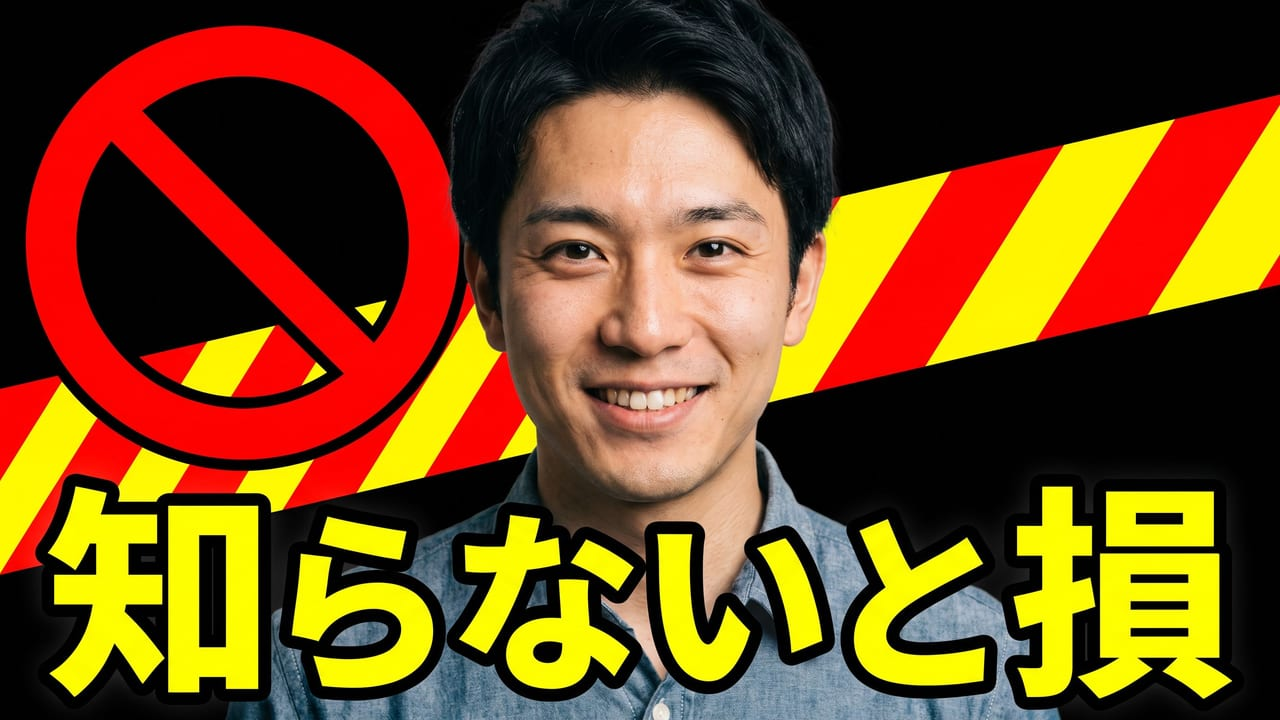
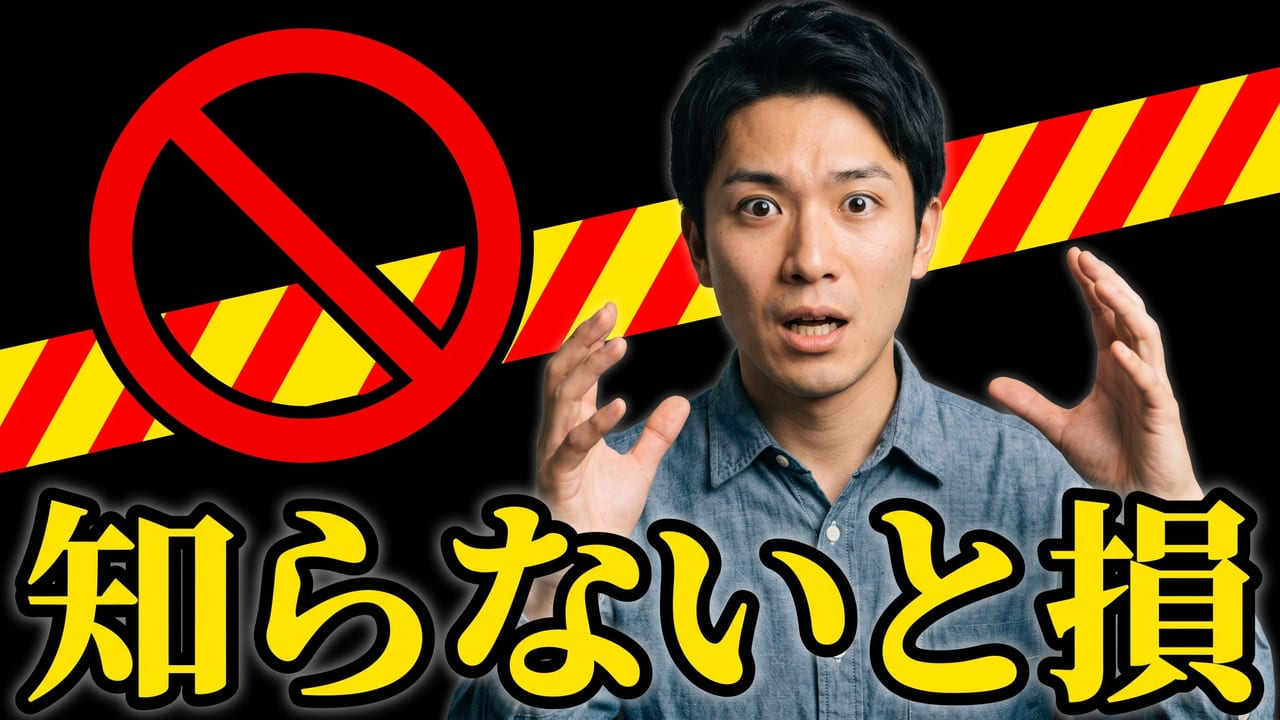
feat: switch to nano-banana-2, fix the illustrated face, add a beauty persona
ENGINE. google/nano-banana-pro -> google/nano-banana-2 (Gemini 3.1 Flash
Image), decided by scripts/bakeoff.ts over 15 real Japanese hooks per engine
with every disputed result checked by eye: JP text 15/15 vs 14/15, ~19s vs
~34s, $0.067 vs $0.134 an image. Better text, ~1.8x faster, half the price —
the incumbent was losing to Google's own newer, cheaper model. Read from
NBP_MODEL so a regression can be rolled back from Vercel with no deploy;
image quality is subjective and 15 images is a sample, not a guarantee.

ACTION PROMPT. Both engines were returning an illustrated face for this
concept — for this product the worst possible failure, since the user's
uploaded face is the entire point and a cartoon of it is not them. The old
wording opened with "comic-book-style" and tried to claw the person back
with "NOT illustrated, drawn or cartoon". That was the wrong shape of fix:
an image model takes its medium from the first thing it reads, and negations
are weak. It now opens "A photorealistic ... photograph, shot on a real
camera", describes skin, hair and photographic light positively instead of
forbidding cartoons, and drops the word "comic" entirely in favour of the
concrete shapes actually wanted (radiating burst lines, halftone dots) —
shapes cannot be applied to a face the way a whole-image art style can.
Verified: the regenerated sample is fully photographic.

BEAUTY PERSONA. soft-lifestyle's sample showed the mid-20s male persona.
[…]

diff --git a/scripts/gen-examples.ts b/scripts/gen-examples.ts
@@ -37,8 +37,6 @@ if (!process.env.REPLICATE_API_TOKEN) {
 
 const OUT_DIR = join(process.cwd(), '.preview-examples');
 const PUBLISH_DIR = join(process.cwd(), 'public', 'examples');
-const PORTRAIT_PATH = join(OUT_DIR, 'persona.png');
-
 // One sample per concept. Hooks stay close to the prod-validated phrases
 // (まさかの結末 / 1日で100万 / I QUIT / 新記録達成) to minimize garble risk;
 // topics vary to show range. lang must match each concept's lang in lib/nbp.ts.
@@ -89,12 +87,37 @@ const SAMPLES: Record<string, { topic: string; hook: string }> = {
   },
 };
 
-const PORTRAIT_PROMPT =
-  'A photorealistic studio headshot portrait of a fictional Japanese man in his mid-20s, ' +
-  'a friendly approachable YouTube content creator with short black hair and a natural smile, ' +
-  'looking straight at the camera, plain light gray studio background, soft even lighting, ' +
-  'sharp focus on the face, head and shoulders only. This is an entirely fictional person ' +
-  'who does not resemble any real individual.';
+// Two fictional personas. The samples are what a first-time visitor uses to
+// decide whether a style is "for them", so a beauty/lifestyle tile showing a
+// man in his mid-20s quietly tells the largest audience for that style that it
+// isn't. Both are entirely fictional — no real person's likeness is involved.
+const PERSONAS: Record<'default' | 'beauty', { path: string; prompt: string }> = {
+  default: {
+    path: join(OUT_DIR, 'persona.png'),
+    prompt:
+      'A photorealistic studio headshot portrait of a fictional Japanese man in his mid-20s, ' +
+      'a friendly approachable YouTube content creator with short black hair and a natural smile, ' +
+      'looking straight at the camera, plain light gray studio background, soft even lighting, ' +
+      'sharp focus on the face, head and shoulders only. This is an entirely fictional person ' +
+      'who does not resemble any real individual.',
+  },
+  beauty: {
+    path: join(OUT_DIR, 'persona-beauty.png'),
+    prompt:
+      'A photorealistic studio headshot portrait of a fictional Japanese woman in her mid-20s, ' +
+      'a friendly approachable beauty and lifestyle YouTube creator with shoulder-length dark hair ' +
+      'and a natural relaxed smile, looking straight at the camera, plain light gray studio ' +
+      'background, soft even lighting, sharp focus on the face, head and shoulders only. ' +
+      'This is an entirely fictional person who does not resemble any real individual.',
+  },
+};
+
+// Which persona each concept's sample uses. Anything unlisted uses `default`.
+const SAMPLE_PERSONA: Record<string, keyof typeof PERSONAS> = {
+  'soft-lifestyle': 'beauty',
+};
+
+const PORTRAIT_PATH = PERSONAS.default.path;
 
 async function toBytes(out: unknown): Promise<Buffer | null> {
   const item: unknown = Array.isArray(out) ? out[0] : out;
@@ -113,12 +136,13 @@ async function toBytes(out: unknown): Promise<Buffer | null> {
   return Buffer.from(await res.arrayBuffer());
 }
 
-async function genPortrait(replicate: Replicate) {
+async function genPortrait(replicate: Replicate, which: keyof typeof PERSONAS = 'default') {
   mkdirSync(OUT_DIR, { recursive: true });
-  process.stdout.write('[portrait] generating fictional persona... ');
+  const persona = PERSONAS[which];
+  process.stdout.write(`[portrait:${which}] generating fictional persona... `);
   const out = await replicate.run(NBP_MODEL, {
     input: {
-      prompt: PORTRAIT_PROMPT,
+      prompt: persona.prompt,
       image_input: [],
       aspect_ratio: '1:1',
       resolution: '1K',
@@ -128,14 +152,14 @@ async function genPortrait(replicate: Replicate) {
   const bytes = await toBytes(out);
   if (!bytes) throw new Error('portrait: no image returned');
   const png = await sharp(bytes).resize(800, 800, { fit: 'cover' }).png().toBuffer();
-  writeFileSync(PORTRAIT_PATH, png);
-  console.log(`ok ${(png.length / 1024).toFixed(0)}KB -> ${PORTRAIT_PATH}`);
+  writeFileSync(persona.path, png);
+  console.log(`ok ${(png.length / 1024).toFixed(0)}KB -> ${persona.path}`);
 }
 
 // The prod path takes a URL for the face ref. Upload the local portrait via
 // Replicate's files API and use its URL; fall back to a data URI if that fails.
-async function portraitRefUrl(replicate: Replicate): Promise<string> {
-  const png = readFileSync(PORTRAIT_PATH);
+async function portraitRefUrl(replicate: Replicate, path: string): Promise<string> {
+  const png = readFileSync(path);
   // Identity ref doesn't need full res — keep the data-URI fallback small.
   const jpeg = await sharp(png).resize(640, 640).jpeg({ quality: 82 }).toBuffer();
   try {
@@ -153,11 +177,21 @@ async function genSamples(replicate: Replicate, only?: string) {
     throw new Error('persona.png missing — run `gen-examples.ts portrait` first');
   }
   mkdirSync(OUT_DIR, { recursive: true });
-  const refUrl = await portraitRefUrl(replicate);
+  // One ref URL per persona, uploaded on first use.
+  const refUrls = new Map<string, string>();
   for (const concept of NBP_CONCEPTS) {
     if (only && concept.key !== only) continue;
     const sample = SAMPLES[concept.key];
     if (!sample) continue;
+    const which = SAMPLE_PERSONA[concept.key] ?? 'default';
+    const personaPath = PERSONAS[which].path;
+    if (!existsSync(personaPath)) {
+      console.log(`
+[sample:${concept.key}] SKIP — ${personaPath} missing (run: gen-examples.ts portrait ${which})`);
+      continue;
+    }
+    if (!refUrls.has(which)) refUrls.set(which, await portraitRefUrl(replicate, personaPath));
+    const refUrl = refUrls.get(which)!;
     const prompt = concept.build(sample.hook, sample.topic, true); // hasFace = true
     process.stdout.write(`\n[sample:${concept.key}] hook="${sample.hook}" generating... `);
     try {
@@ -190,7 +224,7 @@ async function publish() {
 async function main() {
   const replicate = new Replicate({ auth: process.env.REPLICATE_API_TOKEN });
   const cmd = process.argv[2];
-  if (cmd === 'portrait') await genPortrait(replicate);
+  if (cmd === 'portrait') await genPortrait(replicate, (process.argv[3] as 'default' | 'beauty') || 'default');
   else if (cmd === 'samples') await genSamples(replicate, process.argv[3]);
   else if (cmd === 'publish') await publish();
   else {

diff --git a/lib/nbp.ts b/lib/nbp.ts
@@ -15,7 +15,26 @@ import Replicate from 'replicate';
 import sharp from 'sharp';
 import { CONCEPT_KEYS, DEFAULT_CONCEPT_KEYS, type ConceptKey } from './concept-keys';
 
-export const NBP_MODEL = 'google/nano-banana-pro' as const;
+/**
+ * The image model, switchable from the environment.
+ *
+ * Moved from google/nano-banana-pro to google/nano-banana-2 (Gemini 3.1 Flash
+ * Image) on 2026-07-27 after a measured bake-off — scripts/bakeoff.ts, 15 real
+ * Japanese hooks per engine, every disputed result checked by eye:
+ *
+ *              japanese text   avg latency   cost/image
+ *   nbp Pro       14/15           34s          $0.134
+ *   nb2           15/15           19s          $0.067
+ *
+ * So: better text, ~1.8x faster, half the price. The hard cases (ぶっちゃけます,
+ * コスパ最強, え、まじ？, 3日で5kg減, 新NISAの正解) all rendered correctly on
+ * nb2, while nbp Pro invented a particle — "コスパの最強" — in one of them.
+ *
+ * Read from the env so a regression can be rolled back by setting NBP_MODEL in
+ * Vercel, with no deploy: image quality is subjective and a bake-off is a
+ * sample, not a guarantee.
+ */
+export const NBP_MODEL = (process.env.NBP_MODEL ?? 'google/nano-banana-2') as `${string}/${string}`;
 
 // A "concept" is a conceptually-different thumbnail idea (NOT a font swap).
 // `lang` picks which hook to feed: 'native' = the title's own language (JP for
@@ -86,8 +105,20 @@ export const NBP_CONCEPTS: NbpConcept[] = [
     key: 'action',
     lang: 'native',
     label: 'Action energy',
+    // REWRITTEN 2026-07-27. The old wording opened with "comic-book-style" and
+    // relied on "NOT illustrated, drawn or cartoon" to claw the person back to
+    // photographic. It didn't work: in a bake-off BOTH engines returned an
+    // illustrated face, which for this product is the worst possible failure —
+    // the user's uploaded face is the whole point, and a cartoon of it is not
+    // them. Two lessons are baked in here: an image model takes its medium from
+    // the FIRST thing it reads, so the sentence now opens "A photorealistic
+    // photograph"; and negations are weak, so instead of forbidding "cartoon"
+    // we positively describe skin, hair and camera. The word "comic" is gone
+    // entirely — the burst effects are now named as the concrete shapes we
+    // actually want (radiating lines, halftone dots), which cannot be applied
+    // to a face the way a whole-image art style can.
     build: (hook, topic, hasFace) =>
-      `A high-energy 16:9 YouTube thumbnail about ${topic} with comic-book-style BACKGROUND effects only. ${heroClause(hasFace)}, kept PHOTOGRAPHIC and realistic — NOT illustrated, drawn or cartoon — with an intense excited expression, fist raised, placed CENTER-RIGHT. Dark dramatic background with comic-style vibrant red and orange energy bursts and strong rim light (apply the comic styling to the background and effects, never to the person's face). Reserve a clear band on the LEFT for the text. Place the text on the LEFT in a bright bold yellow font with a thick black outline and a slight skew. ${legible(hook)} ${NO_EXTRA_TEXT} Explosive and exciting.`,
+      `A photorealistic 16:9 YouTube thumbnail photograph about ${topic}, shot on a real camera. ${heroClause(hasFace)}, with an intense excited expression and one fist raised, placed CENTER-RIGHT. The person must stay a real photograph throughout — real skin texture, real hair, real photographic lighting — and must never be redrawn, illustrated, stylised, animated or turned into a drawing. BEHIND the person, a dark dramatic background built only from flat graphic shapes: vivid red and orange radiating burst lines, a halftone dot texture, and a strong warm rim light separating them from the background. Those graphic shapes stay strictly in the background and never cross, cover or restyle the person. Reserve a clear band on the LEFT for the text. Place the text on the LEFT in a bright bold yellow font with a thick black outline and a slight skew. ${legible(hook)} ${NO_EXTRA_TEXT} Explosive and exciting.`,
   },
 ];
 

diff --git a/CLAUDE.md b/CLAUDE.md
@@ -23,12 +23,12 @@ Paste a video URL + optionally upload your own face photo → 4 finished, styled
 2. `fetchVideoMetadata` (YouTube Data API) → title / description / channel.
 3. `analyzeForThumbnail` (Claude Haiku) → an English scene topic + 2-4 word HOOKS in BOTH the title's language AND English (the JP + global localized variants).
 4. **Face source = the user's OWN uploaded photo only** (`POST /api/upload-persona` → Supabase `thumbnails` bucket → public URL). No photo → faceless topical scene. A third party's face is NEVER baked in (legal: consent / right-of-publicity — see project memory).
-5. **Engine = `lib/nbp.ts`** → Replicate `google/nano-banana-pro` (Gemini 3 Pro Image). **The user PICKS which styles to generate** (multi-select, default 4 of 10 — `body.concept_keys`, resolved by `selectConcepts()`; omitting the field still means all of them, for old clients). For each picked concept it builds a prompt that RESERVES a text zone (so the hero never occludes the hook), appends the weekly clause from `lib/gallery-insights.ts`, passes the face photo as `image_input` for identity preservation, generates 16:9 @2K, and pins the result to 1280×720 via sharp. Concepts run in parallel via `Promise.allSettled` (one concept failing — e.g. an NBP safety refusal — doesn't sink the batch), and every image that fails is refunded individually.
+5. **Engine = `lib/nbp.ts`** → Replicate `google/nano-banana-2` (Gemini 3.1 Flash Image) since 2026-07-27; override with the `NBP_MODEL` env var to roll back without a deploy. Chosen over `google/nano-banana-pro` by a measured bake-off (`npm run bakeoff`, 15 real JP hooks/engine): JP text 15/15 vs 14/15, ~19s vs ~34s, $0.067 vs $0.134 per image. **The user PICKS which styles to generate** (multi-select, default 4 of 10 — `body.concept_keys`, resolved by `selectConcepts()`; omitting the field still means all of them, for old clients). For each picked concept it builds a prompt that RESERVES a text zone (so the hero never occludes the hook), appends the weekly clause from `lib/gallery-insights.ts`, passes the face photo as `image_input` for identity preservation, generates 16:9 @2K, and pins the result to 1280×720 via sharp. Concepts run in parallel via `Promise.allSettled` (one concept failing — e.g. an NBP safety refusal — doesn't sink the batch), and every image that fails is refunded individually.
    - **The 10 styles** live in `lib/concept-keys.ts` (shared, dependency-free, so the client picker and the server prompts cannot drift) with prompts in `lib/nbp.ts`. Originals: face-surprise / jp-telop / global-clean[EN] / action. Added 2026-07-27: object-spotlight / calm-authority / split-compare / risk-warning / soft-lifestyle / night-cinematic[EN]. **APPEND ONLY** — files are named `thumb-{index+1}.png` from a concept's position, so inserting or reordering renames existing slots.
    - Hooks: `analyzeForThumbnail()` asks Haiku for exactly as many hooks as styles were picked, and they're assigned by position WITHIN the selection — so no two thumbnails in a batch carry the same wording.
 6. Upload finished PNGs to Supabase Storage; return `thumbnails[]` (url / image_url / concept_key / prompt). UI renders whatever count survives.
 
-**Cost ≈ $0.134/image × 4 ≈ $0.54/generation** (NBP 2K). Iterate prompts/concepts offline with `scripts/preview-nbp.ts` (needs only `REPLICATE_API_TOKEN`; output in `.preview-nbp/`).
+**Cost ≈ $0.067/image** (nano-banana-2 @2K); a default 4-style generation ≈ $0.27, all 10 ≈ $0.67. Iterate prompts/concepts offline with `scripts/preview-nbp.ts` (needs only `REPLICATE_API_TOKEN`; output in `.preview-nbp/`).
 
 > Everything below — the "A option" Flux-background + Satori-overlay pipeline, the 4 Satori "styles", the quad-grid 5th card, and the Satori/Flux/CJK "Critical Gotchas" — is **LEGACY (pre-2026-06-03)**. `lib/thumbnail-compose.ts` still exists but is no longer used by `/api/generate`. Kept for reference / possible reuse.
 
